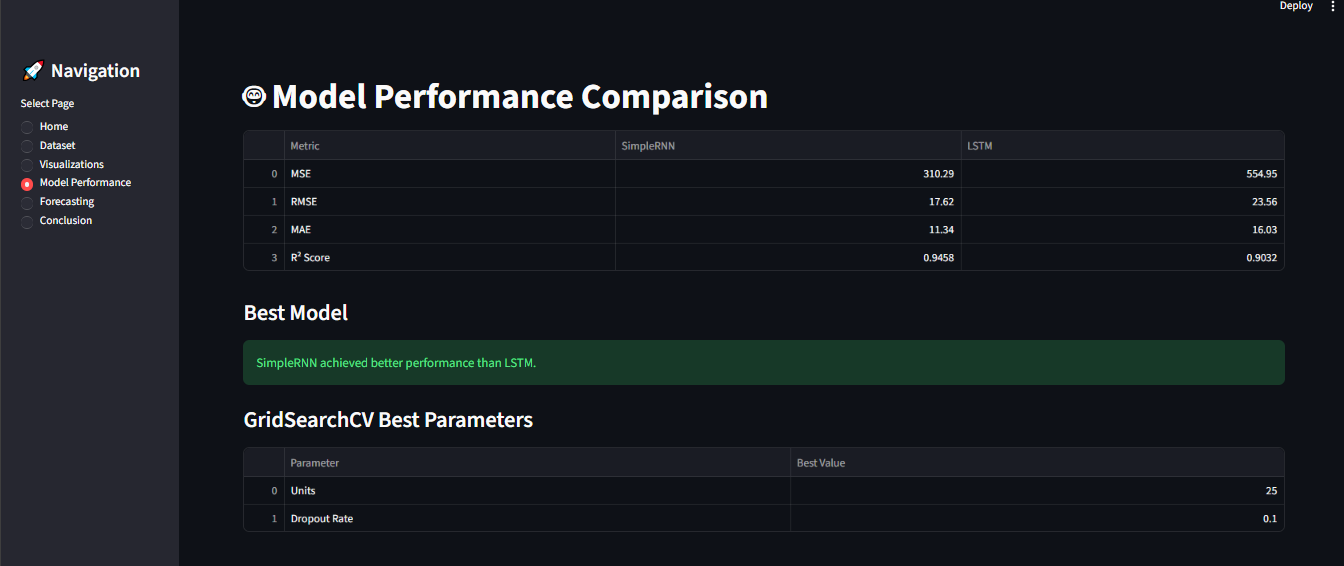
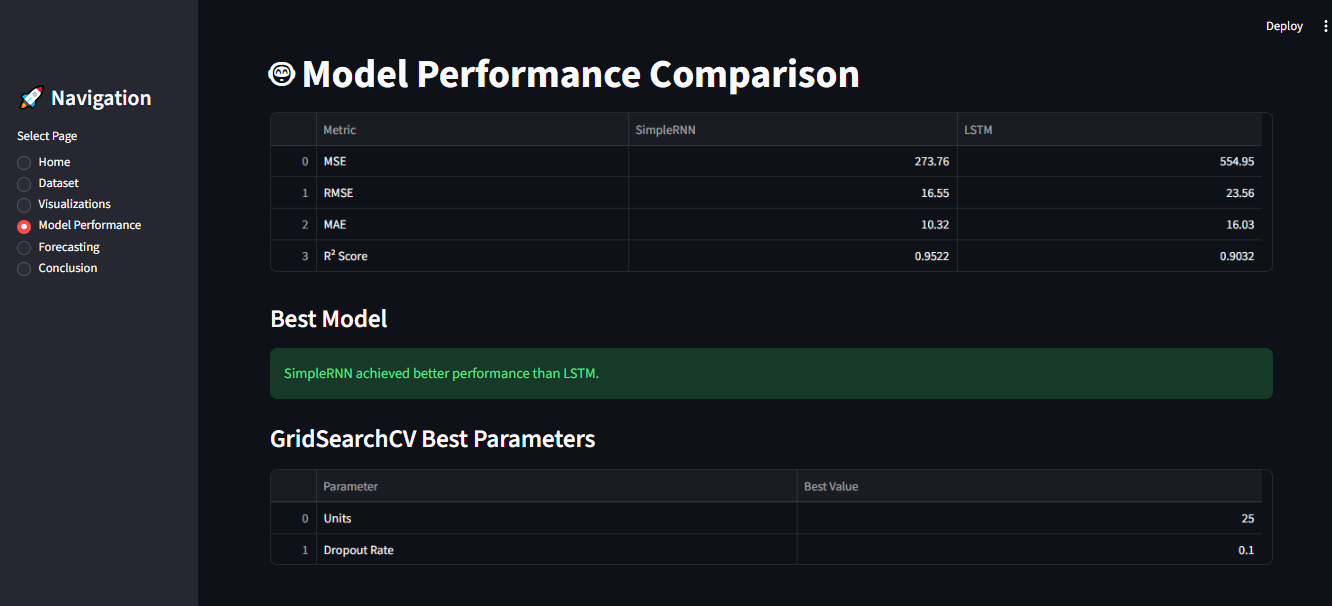
Updated README, screenshots, metrics and project documentation

diff --git a/streamlit/app.py b/streamlit/app.py
@@ -151,7 +151,7 @@ elif page == "Model Performance":
     performance_df = pd.DataFrame(
         {
             "Metric": ["MSE", "RMSE", "MAE", "R² Score"],
-            "SimpleRNN": [310.29, 17.62, 11.34, 0.9458],
+            "SimpleRNN": [273.76, 16.55, 10.32, 0.9522],
             "LSTM": [554.95, 23.56, 16.03, 0.9032],
         }
     )

diff --git a/README.md b/README.md
@@ -68,10 +68,10 @@ The following features were created during analysis:
 
 Performance Metrics:
 
-* MSE: 310.29
-* RMSE: 17.62
-* MAE: 11.34
-* R² Score: 0.9458
+* MSE = 273.76
+* RMSE = 16.55
+* MAE = 10.32
+* R² = 0.9522
 
 ### LSTM
 
@@ -92,12 +92,12 @@ Based on evaluation metrics, the SimpleRNN model achieved the best overall perfo
 
 ## Hyperparameter Tuning
 
-GridSearchCV was used to identify the best model configuration.
-
 ### Best Parameters
 
 * Units: 25
 * Dropout Rate: 0.1
+
+The GridSearchCV results indicated that an LSTM configuration with 25 units and a dropout rate of 0.1 achieved the best validation performance.
 
 ---
 
@@ -137,9 +137,9 @@ The Streamlit dashboard provides:
 Run the application:
 
 ```bash
+cd streamlit
 python -m streamlit run app.py
 ```
-
 ---
 
 # Application Screenshots